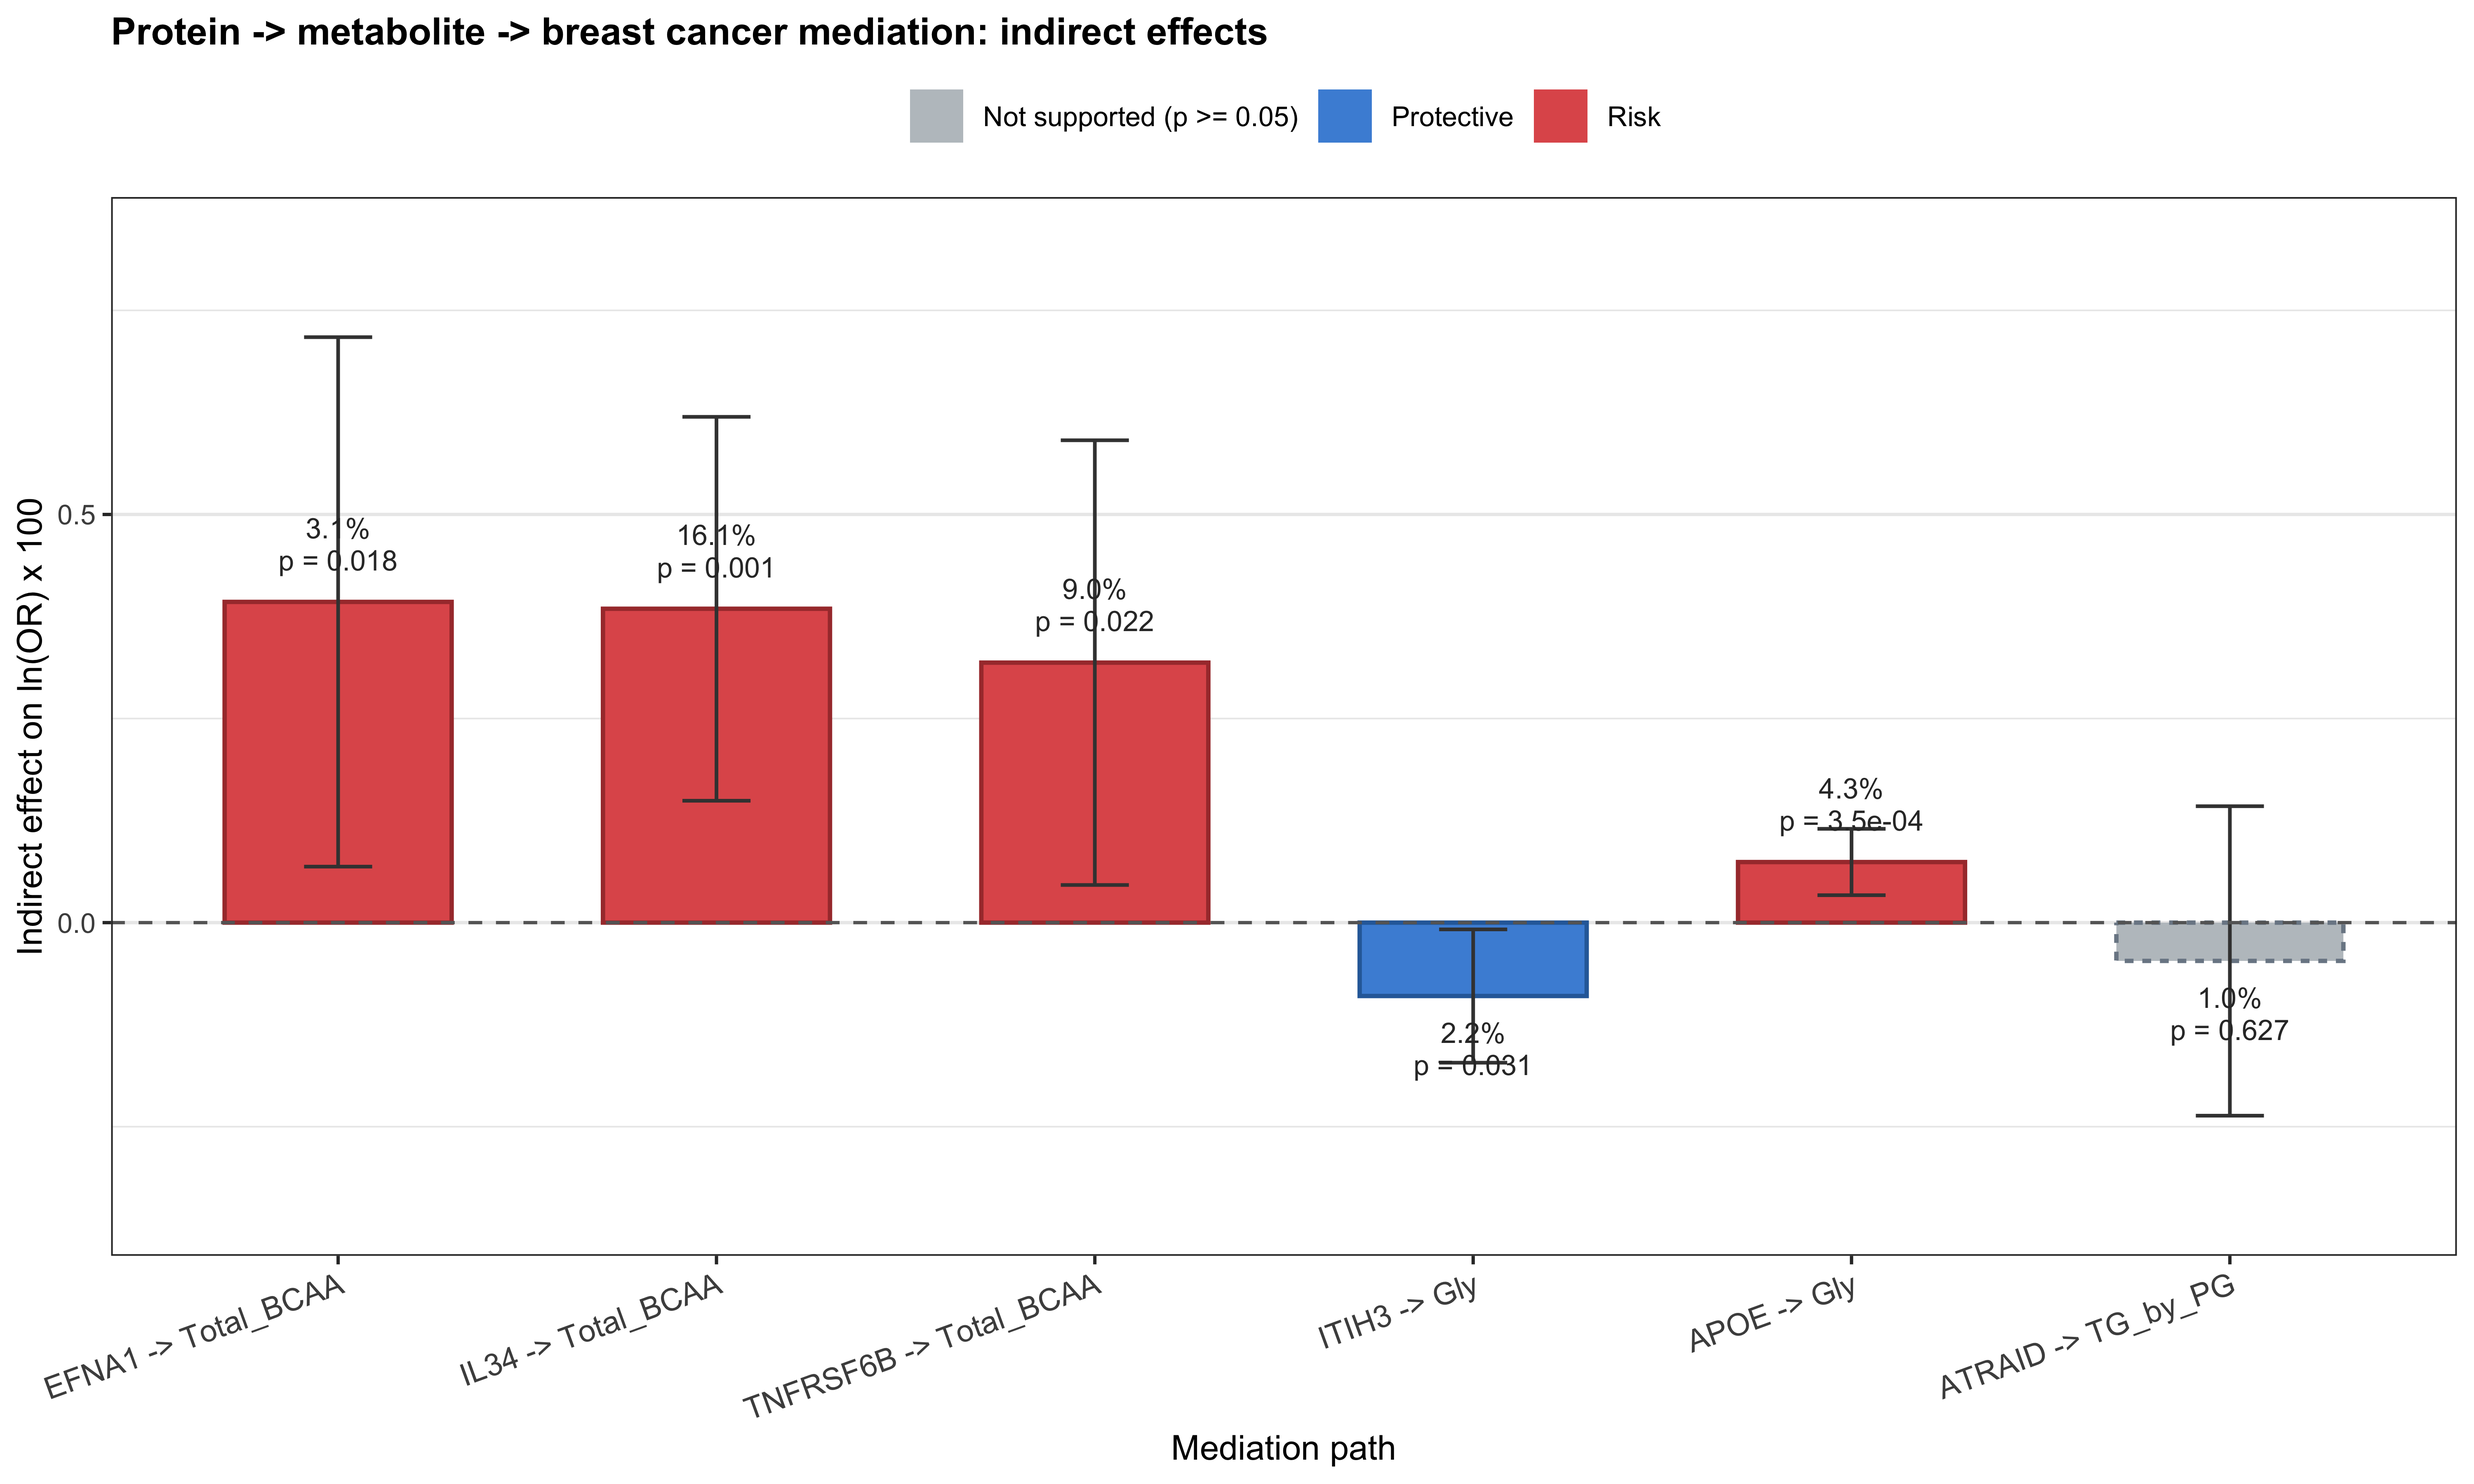
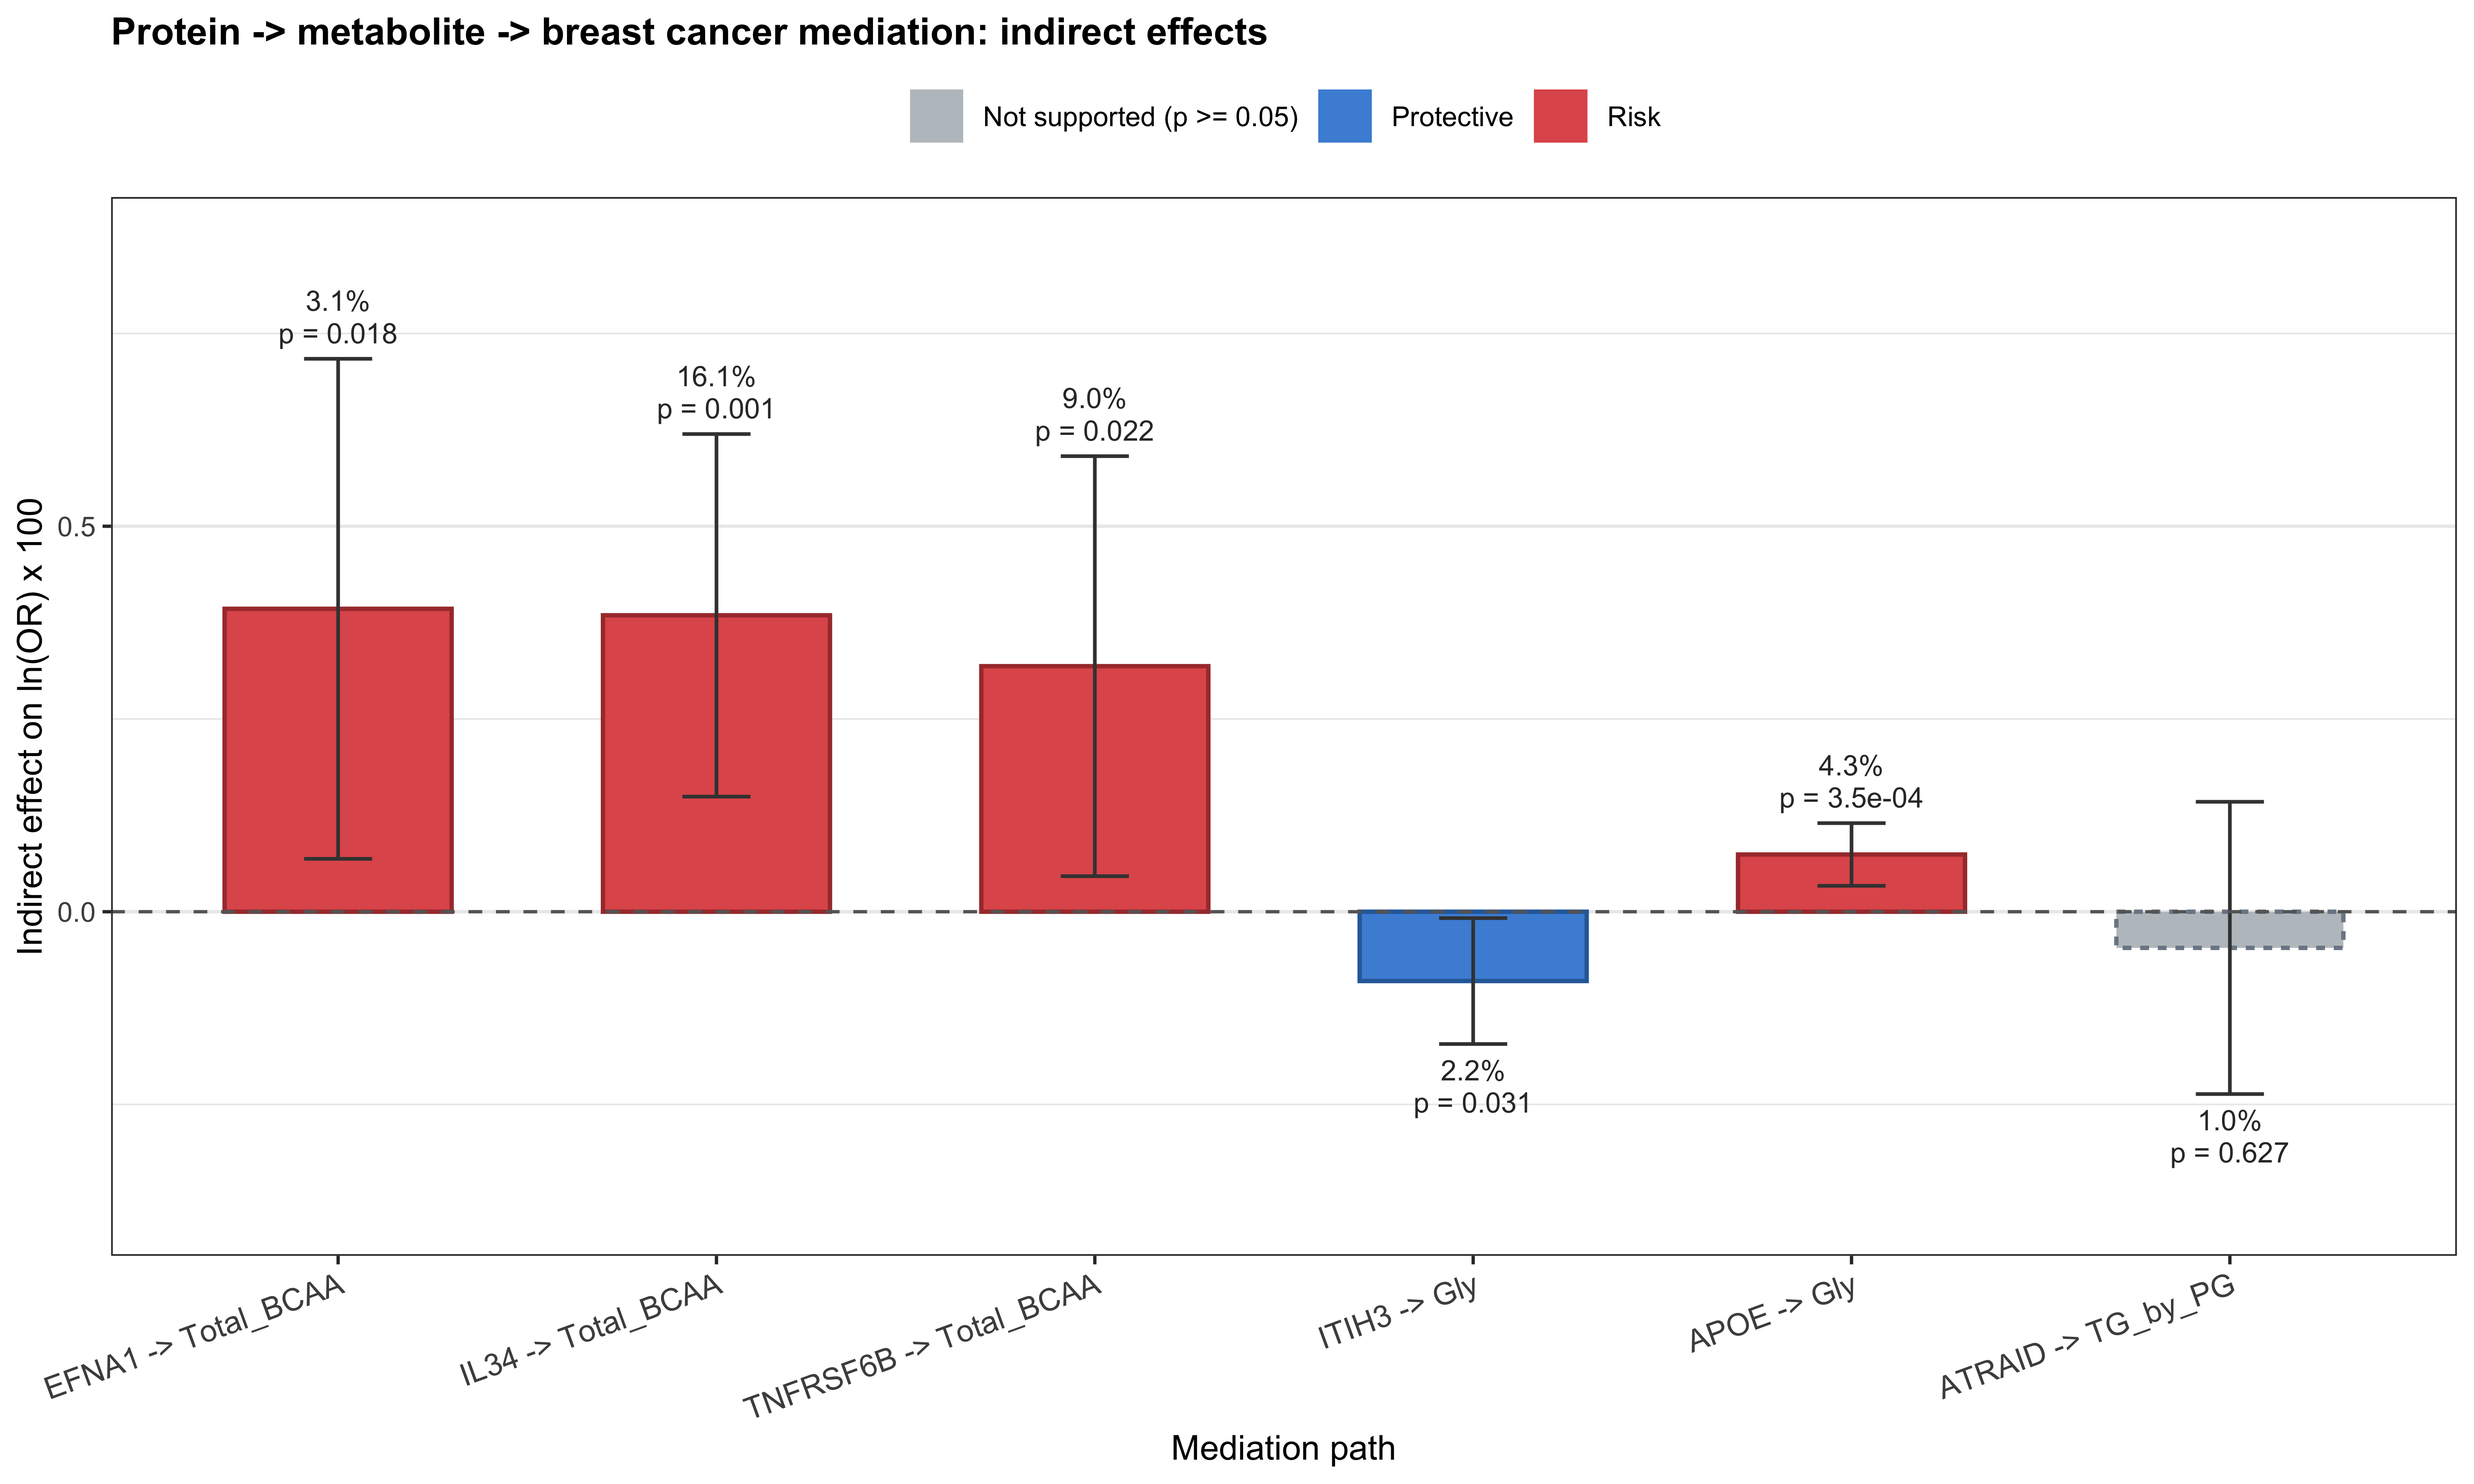
Update companion site: weighted-median mediation results and Finnish LD sensitivity note

diff --git a/docs/index.html b/docs/index.html
@@ -96,7 +96,7 @@
               <li><strong>Immune</strong> — Tumour immune microenvironment correlations.</li>
               <li><strong>Evidence</strong> — Integrated multi-layer evidence table.</li>
               <li><strong>Druggability</strong> — Open Targets druggability assessment.</li>
-              <li><strong>Mediation</strong> — Metabolic mediation analysis identifying indirect pathways.</li>
+              <li><strong>Mediation</strong> — Exploratory protein &rarr; metabolite &rarr; cancer mediation MR (hypothesis-generating).</li>
             </ul>
           </div>
         </div>
@@ -177,7 +177,7 @@
     <!-- 5. Mediation -->
     <div id="tab-mediation" class="tab-pane">
       <div class="alert" style="background-color: var(--bg-light); border-left: 4px solid var(--primary-color); padding: 15px; margin-bottom: 20px; border-radius: 4px;">
-        <strong>Mediation:</strong> Metabolic mediation analysis identifying potential indirect pathways where circulating proteins influence breast cancer risk via circulating metabolites.
+        <strong>Mediation:</strong> Exploratory two-step mediation MR of protein &rarr; metabolite &rarr; breast cancer paths, using the weighted-median estimator for the metabolite-to-cancer step (manuscript Table 2; Supplementary Table 9). These results are hypothesis-generating pathway nominations: no path showed complete three-leg colocalization, multivariable MR was infeasible, and the ATRAID &rarr; TG_by_PG path is not supported (p = 0.627).
       </div>
       <div class="card mb-4">
         <div class="card-header">Mediation paths: protein → metabolite → cancer</div>
@@ -213,6 +213,7 @@
           <li><strong>GTEx cis-eQTL Concordance:</strong> Evaluated cis-eQTL concordance in breast mammary tissue (Supplementary Table 23).</li>
           <li><strong>Palindromic-Variant Sensitivity:</strong> coloc.abf robustness across all 17 loci is unaffected by exclusion of palindromic variants (largest &Delta;PPH4 = 0.046; Supplementary Table 24).</li>
           <li><strong>LD-Stability Sweep (coloc.SuSiE):</strong> The primary analysis reproduces exactly, but across six LD specifications &mdash; including one restricted to unrelated European-ancestry founders, to test whether related individuals in the reference panel drive the instability &mdash; TNFRSF6B is stable (0.883&ndash;0.909) whereas EFNA1 ranges 0.594&ndash;0.965 and ATRAID is bimodal (~0.997 or ~0.0005). Restricting to unrelated founders left all three estimates essentially unchanged, so related individuals are not the driver. EFNA1 and ATRAID are therefore more provisional than coloc.abf-anchored Tier 1 proteins (Supplementary Table 25).</li>
+          <li><strong>Finnish LD Reference (coloc.SuSiE):</strong> Rebuilding LD from the 99 Finnish individuals in the 1000 Genomes panel gave PPH4 = 0.970 for EFNA1 but negligible values for ATRAID (0.0005) and TNFRSF6B (0.0003). Random sets of 99 non-Finnish Europeans were similarly unstable (EFNA1 0.56&ndash;0.90; ATRAID 0.0009&ndash;1.00; TNFRSF6B 0.0009&ndash;0.90), so a panel this small cannot separate an ancestry effect from sampling instability. The analysis neither confirms nor refutes the primary SuSiE assignments; coloc.abf-anchored findings, including TNFRSF6B (PPH4 = 0.888), do not depend on any LD reference (Supplementary Table 26).</li>
         </ul>
       </div>
     </div>
